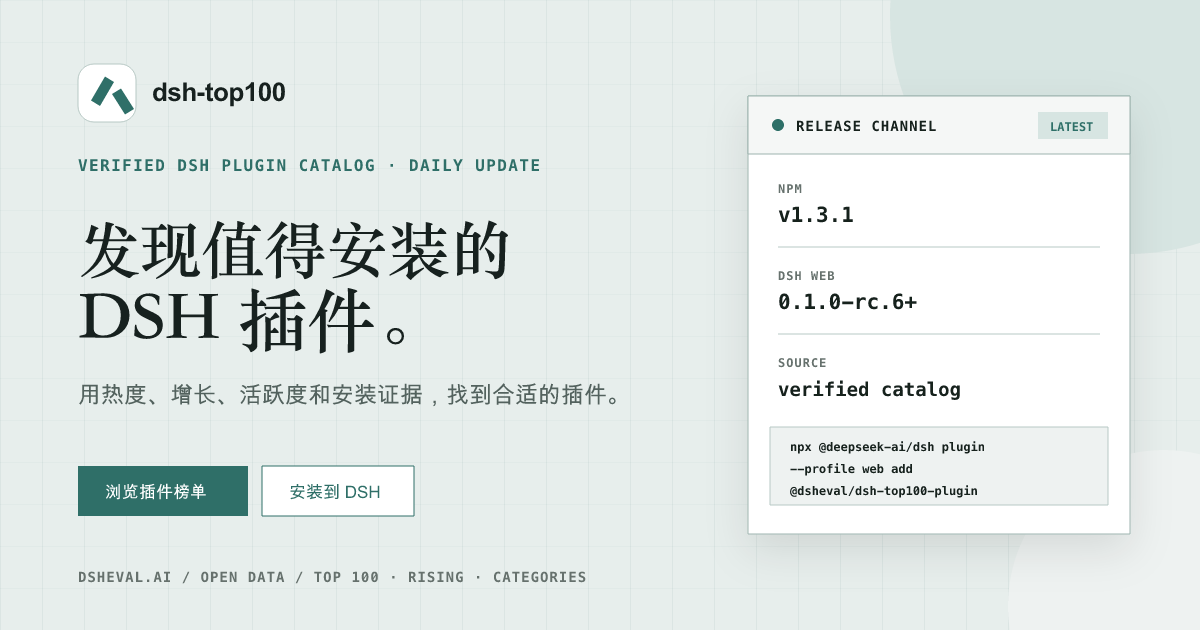
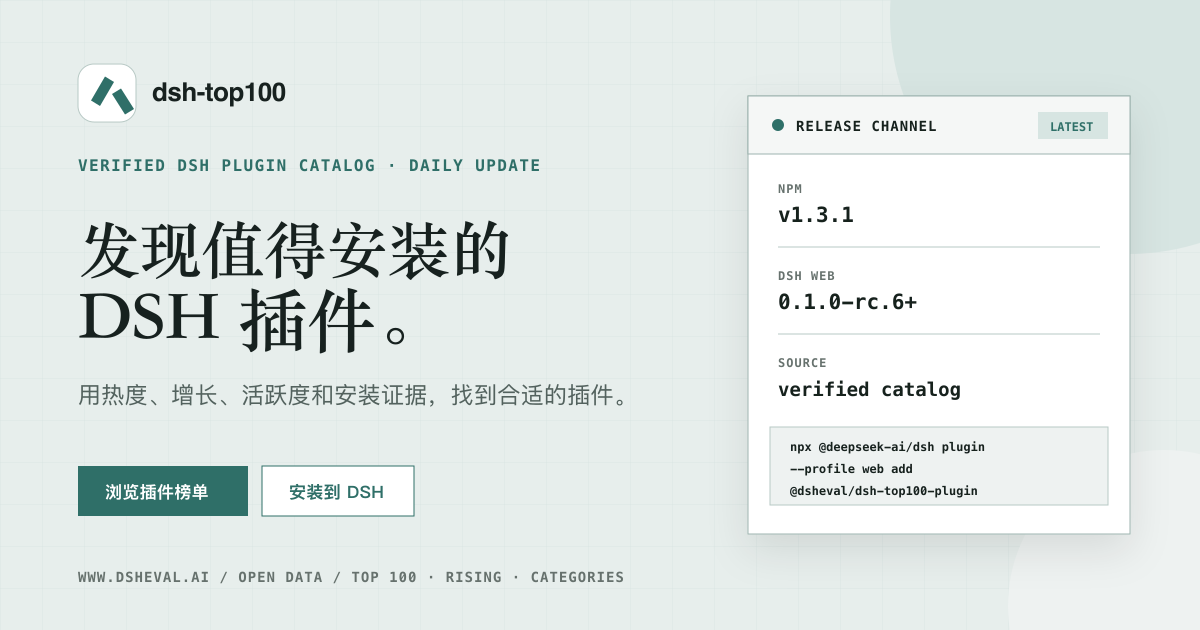
fix: unify www site links and SEO metadata
将 Top100 官网、README、插件入口和 SEO 地址统一到 www.dsheval.ai，并同步插件构建产物和分享图片。

验证：插件构建、npm run check（collector 113、plugin 214、web 66 个测试）、Docker 镜像构建和 Caddy HTTPS 联合验收通过。

diff --git a/web/test/site-migration.test.js b/web/test/site-migration.test.js
@@ -68,17 +68,35 @@ test("local preview serves the Top100 mount and preserves old page queries", asy
 test("public catalog links migrate while released plugin data stays compatible", async () => {
   const read = async (path) => readFile(new URL(path, repo), "utf8");
   const pkg = JSON.parse(await read("plugin/package.json"));
-  assert.equal(pkg.homepage, "https://dsheval.ai/top100/");
+  assert.equal(pkg.homepage, "https://www.dsheval.ai/top100/");
   const host = await read("plugin/src/host/catalog.ts");
   assert.ok(host.includes('DEFAULT_DATA_URL = "https://www.dsheval.ai/data"'));
   const recommendations = await read("plugin/src/host/recommendations.ts");
-  assert.ok(recommendations.includes('DSHEVAL_CATALOG_URL = "https://dsheval.ai/top100/#ranking"'));
+  assert.ok(recommendations.includes('DSHEVAL_CATALOG_URL = "https://www.dsheval.ai/top100/#ranking"'));
   const client = await read("plugin/src/client/RankingsPage.tsx");
-  assert.ok(client.includes('DSHEVAL_SITE = "https://dsheval.ai/top100/"'));
+  assert.ok(client.includes('DSHEVAL_SITE = "https://www.dsheval.ai/top100/"'));
   for (const file of ["README.md", "plugin/README.md"]) {
     const readme = await read(file);
-    assert.ok(readme.includes("https://dsheval.ai/top100/?page=dsh#dsh"));
+    assert.ok(readme.includes("https://www.dsheval.ai/top100/?page=dsh#dsh"));
     assert.ok(readme.includes("不代表项目已通过能力评测"));
+  }
+  for (const file of ["index.html", "skills.html", "docs.html", "top300.html"]) {
+    const html = await read(`web/public/${file}`);
+    assert.match(html, /rel="canonical" href="https:\/\/www\.dsheval\.ai\/top100\//, file);
+    assert.doesNotMatch(html, /https?:\/\/dsheval\.ai(?:\/|["\s<])/, file);
+  }
+  const home = await read("web/public/index.html");
+  for (const property of ["og:url", "og:image"]) {
+    assert.match(home, new RegExp(`property="${property}" content="https://www\\.dsheval\\.ai/top100/`));
+  }
+  const structuredData = JSON.parse(home.match(/<script type="application\/ld\+json">([\s\S]*?)<\/script>/)[1]);
+  assert.equal(structuredData.url, "https://www.dsheval.ai/top100/");
+  assert.equal(structuredData.isPartOf.url, "https://www.dsheval.ai/");
+  const robots = await read("web/public/robots.txt");
+  assert.ok(robots.includes("Sitemap: https://www.dsheval.ai/top100/sitemap.xml"));
+  const sitemap = await read("web/public/sitemap.xml");
+  for (const [, location] of sitemap.matchAll(/<loc>([^<]+)<\/loc>/g)) {
+    assert.equal(new URL(location).origin, "https://www.dsheval.ai");
   }
 });
 

diff --git a/web/public/index.html b/web/public/index.html
@@ -8,32 +8,32 @@
       content="dsh-top100 是 DSH-Eval 旗下的插件与 Skills 发现栏目，通过热度、增长、活跃度和安装证据，帮助你找到值得安装的插件。"
     />
     <meta name="theme-color" content="#d9e7e2" />
-    <link rel="canonical" href="https://dsheval.ai/top100/" />
+    <link rel="canonical" href="https://www.dsheval.ai/top100/" />
     <link rel="icon" href="./favicon.svg" type="image/svg+xml" />
     <meta property="og:type" content="website" />
     <meta property="og:locale" content="zh_CN" />
     <meta property="og:site_name" content="DSH-Eval" />
     <meta property="og:title" content="插件榜单 · Top100 · DSH-Eval" />
     <meta property="og:description" content="DSH-Eval 旗下的插件与 Skills 发现栏目。按热度、增长、项目质量和安装证据持续更新。" />
-    <meta property="og:url" content="https://dsheval.ai/top100/" />
-    <meta property="og:image" content="https://dsheval.ai/top100/assets/dsh-top100-og.png" />
+    <meta property="og:url" content="https://www.dsheval.ai/top100/" />
+    <meta property="og:image" content="https://www.dsheval.ai/top100/assets/dsh-top100-og.png" />
     <meta property="og:image:width" content="1200" />
     <meta property="og:image:height" content="630" />
     <meta name="twitter:card" content="summary_large_image" />
     <meta name="twitter:title" content="插件榜单 · Top100 · DSH-Eval" />
     <meta name="twitter:description" content="DSH-Eval 旗下的插件与 Skills 发现栏目。" />
-    <meta name="twitter:image" content="https://dsheval.ai/top100/assets/dsh-top100-og.png" />
+    <meta name="twitter:image" content="https://www.dsheval.ai/top100/assets/dsh-top100-og.png" />
     <script type="application/ld+json">
       {
         "@context": "https://schema.org",
         "@type": "CollectionPage",
         "name": "dsh-top100",
-        "url": "https://dsheval.ai/top100/",
+        "url": "https://www.dsheval.ai/top100/",
         "description": "DSH-Eval 旗下的插件与 Skills 发现栏目",
         "isPartOf": {
           "@type": "WebSite",
           "name": "DSH-Eval",
-          "url": "https://dsheval.ai/"
+          "url": "https://www.dsheval.ai/"
         },
         "about": {
           "@type": "SoftwareApplication",

diff --git a/web/public/skills.html b/web/public/skills.html
@@ -5,8 +5,8 @@
     <meta name="viewport" content="width=device-width, initial-scale=1" />
     <meta name="theme-color" content="#d9e7e2" />
     <meta name="description" content="浏览 DSH-Eval 旗下 Top100 收录的 Agent Skills；收录不代表已通过能力评测，Skills 不参与插件排名。" />
-    <link rel="canonical" href="https://dsheval.ai/top100/skills.html" />
-    <meta property="og:url" content="https://dsheval.ai/top100/skills.html" />
+    <link rel="canonical" href="https://www.dsheval.ai/top100/skills.html" />
+    <meta property="og:url" content="https://www.dsheval.ai/top100/skills.html" />
     <meta property="og:site_name" content="DSH-Eval" />
     <title>Skills 榜单 · Top100 · DSH-Eval</title>
     <link rel="icon" href="./favicon.svg" type="image/svg+xml" />

diff --git a/web/test/readme-contract.test.js b/web/test/readme-contract.test.js
@@ -12,7 +12,7 @@ const rawAssets = "https://raw.githubusercontent.com/dsheval/dsh-top100/main/web
 test("both READMEs introduce the same product and link to the installation guide", () => {
   for (const readme of [githubReadme, npmReadme]) {
     assert.match(readme, /<h1 align="center">dsh-top100\b[^<]*<\/h1>/);
-    assert.ok(readme.includes("https://dsheval.ai/top100/?page=dsh#dsh"));
+    assert.ok(readme.includes("https://www.dsheval.ai/top100/?page=dsh#dsh"));
     assert.match(readme, /发现、安装和管理插件/);
     assert.match(readme, /Skills/);
     assert.doesNotMatch(readme, /一键下载|dsh-Top100/);

diff --git a/web/test/homepage-contract.test.js b/web/test/homepage-contract.test.js
@@ -89,7 +89,7 @@ test("contains the homepage conversion, privacy and SEO contracts", () => {
   assert.match(html, /closest\("a\.github-link"\)/);
   assert.doesNotMatch(html, /closest\("\.github-link"\)/);
   assert.doesNotMatch(html, /track\([^\n]+state\.query/);
-  assert.match(html, /rel="canonical" href="https:\/\/dsheval\.ai\/top100\/"/);
+  assert.match(html, /rel="canonical" href="https:\/\/www\.dsheval\.ai\/top100\/"/);
   assert.match(html, /type="application\/ld\+json"/);
   assert.doesNotMatch(html, /github\.githubassets\.com\/favicons/);
 });

diff --git a/plugin/lib/host/recommendations.d.ts b/plugin/lib/host/recommendations.d.ts
@@ -4,7 +4,7 @@ import type { PluginCategoryId, RankingsDocument } from "../shared/types.js";
 import type { PluginResolvedConfig } from "./contracts.js";
 export declare const RECOMMENDATION_SKILL_NAME = "recommend-dsh-plugins";
 export declare const RECOMMENDATION_TOOL_NAME = "dsh_top100_search";
-export declare const DSHEVAL_CATALOG_URL = "https://dsheval.ai/top100/#ranking";
+export declare const DSHEVAL_CATALOG_URL = "https://www.dsheval.ai/top100/#ranking";
 export interface RecommendationItem {
     rank: number;
     fullName: string;

diff --git a/plugin/lib/host/recommendations.js b/plugin/lib/host/recommendations.js
@@ -8,7 +8,7 @@ import { filterCatalog, loadSearchRankings } from "./catalog.js";
 import { readInstalled } from "./profile.js";
 export const RECOMMENDATION_SKILL_NAME = "recommend-dsh-plugins";
 export const RECOMMENDATION_TOOL_NAME = "dsh_top100_search";
-export const DSHEVAL_CATALOG_URL = "https://dsheval.ai/top100/#ranking";
+export const DSHEVAL_CATALOG_URL = "https://www.dsheval.ai/top100/#ranking";
 const PROVIDER_NAME = "dsh-top100";
 const DEFAULT_LIMIT = 5;
 const MAX_LIMIT = 10;

diff --git a/plugin/src/client/RankingsPage.tsx b/plugin/src/client/RankingsPage.tsx
@@ -35,7 +35,7 @@ interface RankingsPageProps {
 const SORT_VIEWS: RankingView[] = ["hot", "rising", "total"];
 const CATALOG_SCOPES: CatalogScope[] = ["plugins", "skills"];
 const LAST_BATCH_KEY = "dsh-top100:last-install-batch:v1";
-const DSHEVAL_SITE = "https://dsheval.ai/top100/";
+const DSHEVAL_SITE = "https://www.dsheval.ai/top100/";
 type PageSection = "rankings" | "installed" | "diagnostics";
 const GITHUB_ICON = (
   <svg viewBox="0 0 24 24" aria-hidden="true" focusable="false">

diff --git a/plugin/src/host/recommendations.ts b/plugin/src/host/recommendations.ts
@@ -18,7 +18,7 @@ import { readInstalled } from "./profile.js";
 
 export const RECOMMENDATION_SKILL_NAME = "recommend-dsh-plugins";
 export const RECOMMENDATION_TOOL_NAME = "dsh_top100_search";
-export const DSHEVAL_CATALOG_URL = "https://dsheval.ai/top100/#ranking";
+export const DSHEVAL_CATALOG_URL = "https://www.dsheval.ai/top100/#ranking";
 const PROVIDER_NAME = "dsh-top100";
 const DEFAULT_LIMIT = 5;
 const MAX_LIMIT = 10;

diff --git a/web/public/top300.html b/web/public/top300.html
@@ -5,7 +5,7 @@
     <meta http-equiv="refresh" content="0; url=/top100/#ranking" />
     <meta name="robots" content="noindex" />
     <title>正在前往 dsh-top100</title>
-    <link rel="canonical" href="https://dsheval.ai/top100/" />
+    <link rel="canonical" href="https://www.dsheval.ai/top100/" />
   </head>
   <body>
     <p>榜单地址已迁移，正在跳转。<a href="/top100/#ranking">立即打开</a></p>

diff --git a/plugin/client/client.js b/plugin/client/client.js
@@ -751,7 +751,7 @@ const SORT_VIEWS = [
 ];
 const CATALOG_SCOPES = ["plugins", "skills"];
 const LAST_BATCH_KEY = "dsh-top100:last-install-batch:v1";
-const DSHEVAL_SITE = "https://dsheval.ai/top100/";
+const DSHEVAL_SITE = "https://www.dsheval.ai/top100/";
 const GITHUB_ICON = /* @__PURE__ */ (0, react_jsx_runtime.jsx)("svg", {
 	viewBox: "0 0 24 24",
 	"aria-hidden": "true",

diff --git a/web/public/docs.html b/web/public/docs.html
@@ -603,7 +603,7 @@
       }
     </style>
     <link rel="stylesheet" href="./site-controls.css?v=20260905-nav2" />
-    <link rel="canonical" href="https://dsheval.ai/top100/?page=docs" />
+    <link rel="canonical" href="https://www.dsheval.ai/top100/?page=docs" />
     <link rel="stylesheet" href="./site-chrome.css?v=20260905-type8c" />
   </head>
   <body>
